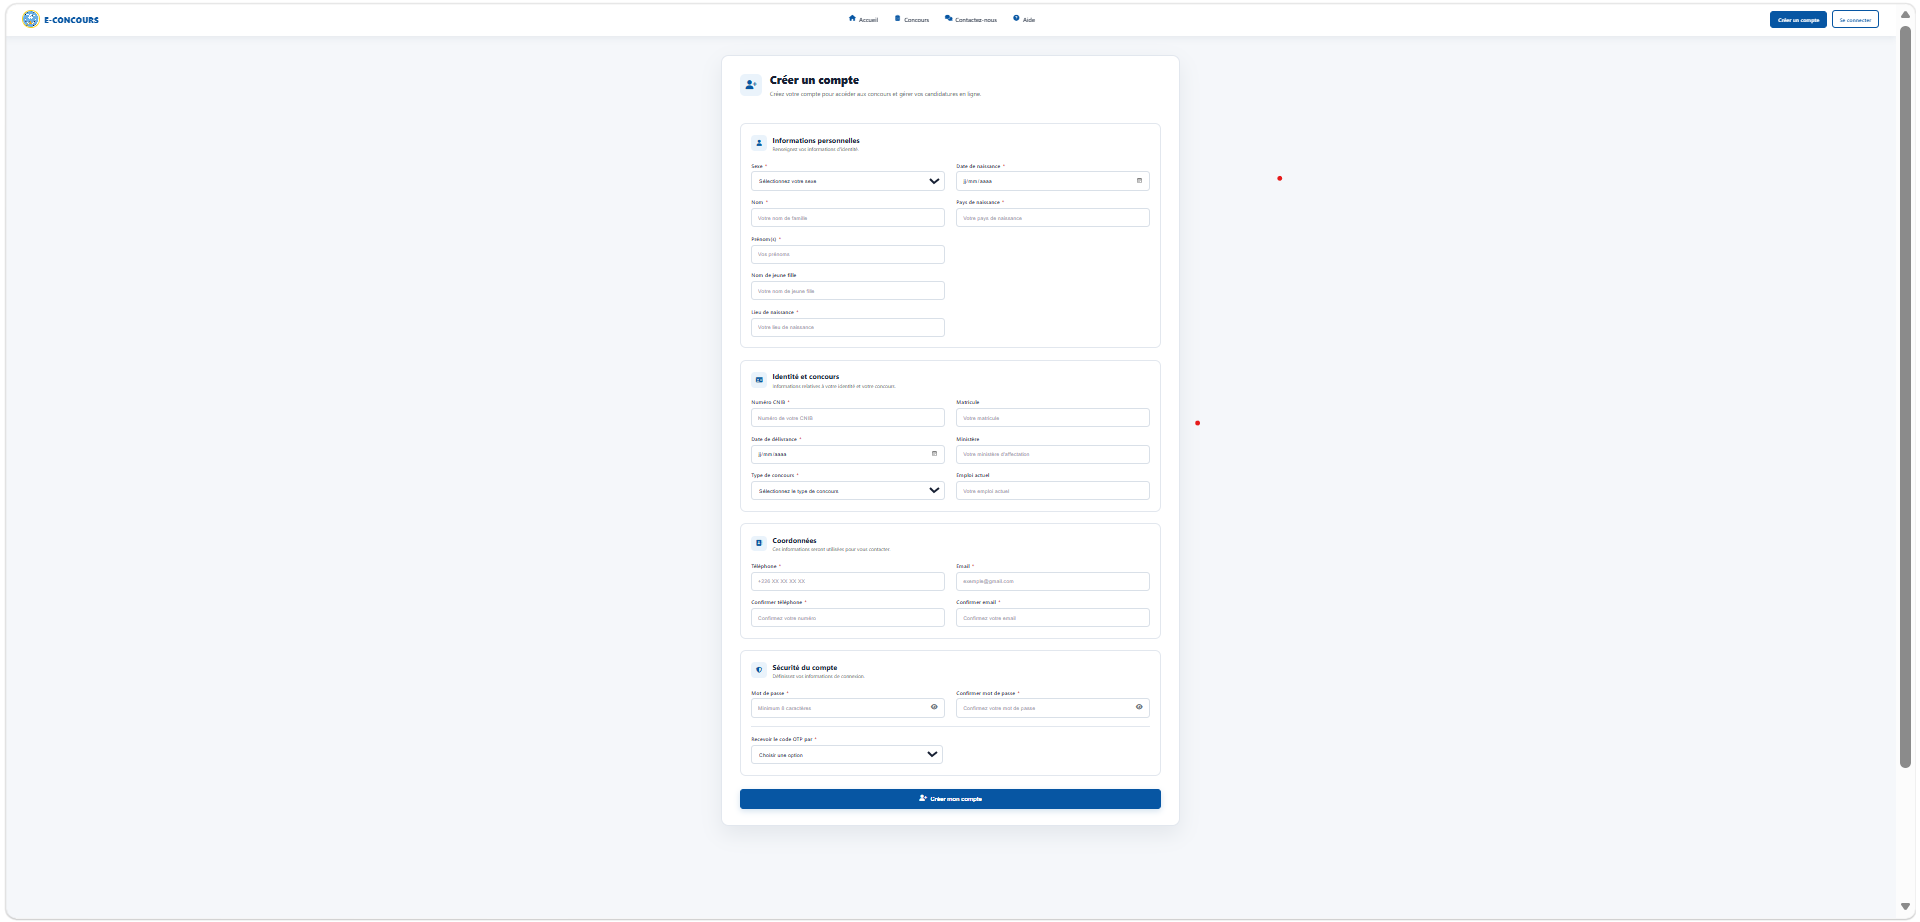
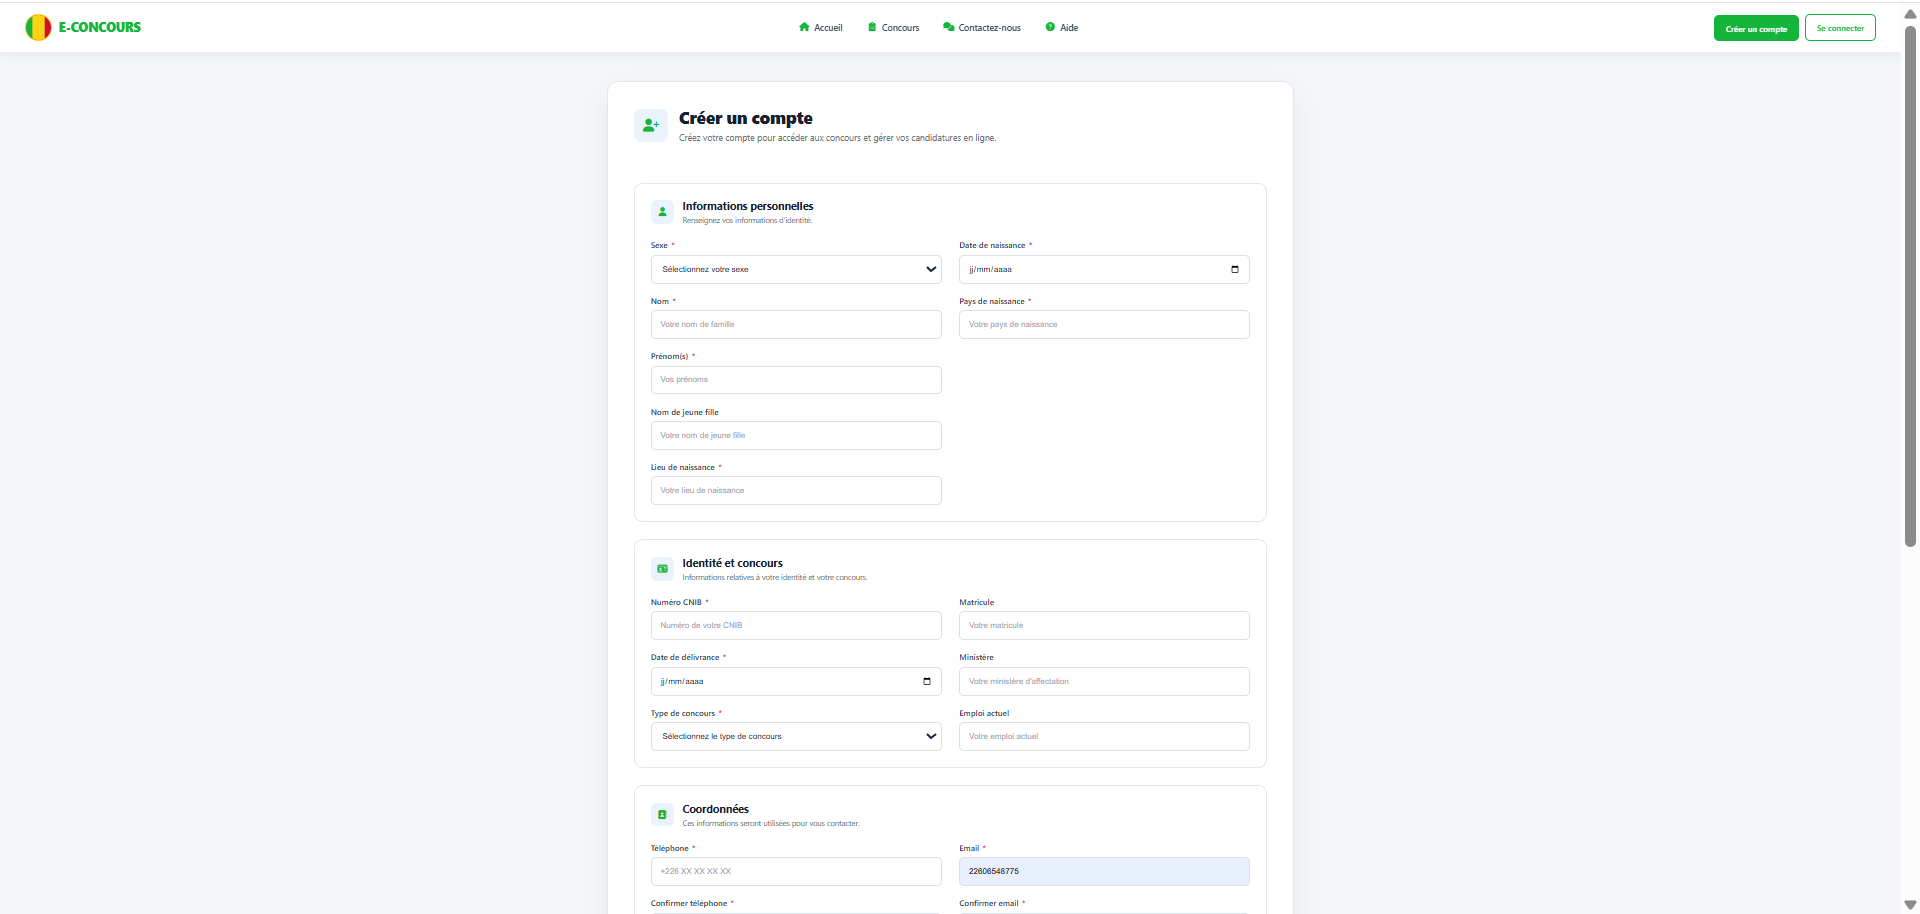
neoli

diff --git a/controllers/concoursController.js b/controllers/concoursController.js
@@ -77,7 +77,7 @@ export default class ConcoursController {
 
         this.allConcours = concoursList;
 
-      //  console.log("Concours chargés :", this.allConcours);
+        //  console.log("Concours chargés :", this.allConcours);
     }
 
     static async loadConcours(page = 1) {
@@ -133,7 +133,7 @@ export default class ConcoursController {
 
         this.select.addEventListener("change", () => {
 
-          //  console.log("CATEGORIE SELECTED:", this.select.value);
+            //  console.log("CATEGORIE SELECTED:", this.select.value);
 
             this.currentCategorie = this.select.value;
 
@@ -147,35 +147,51 @@ export default class ConcoursController {
         this.container.innerHTML = "";
 
         concoursList.forEach(concours => {
-            // hasConcours = true;
-            // console.log("CONCOURS =", concours);
-            // console.log(
-            //     `detail_concours.php?id=${concours.id_concours}`
-            // );
 
             const card = document.createElement("div");
             card.className = "concours-card";
 
+            const bouton = concours.est_inscrit
+                ? `
+                <span class="btn-primary disabled">
+                    <i class="fa-solid fa-check"></i>
+                    Déjà inscrit
+                </span>
+            `
+                : `
+                <a
+                    href="detail_concours.php?id=${concours.id_concours}"
+                    class="btn-primary"
+                >
+                    Voir détails
+                </a>
+            `;
+
             card.innerHTML = `
 
-                <h2>${concours.nom}</h2>
+            <h2>${concours.nom}</h2>
 
-                <div class="concours-footer">
-                   <div class="infos">
-                        <span><i class="fa-solid fa-calendar-days"></i> ${this.formatDate(concours.date_debut)}</span>
-                        <span><i class="fa-solid fa-users"></i> ${concours.nombre_postes || 0} postes</span>
-                    </div>
+            <div class="concours-footer">
 
-                    <a href="detail_concours.php?id=${concours.id_concours}" class="btn-primary">
-                        Voir détails
-                    </a>
+                <div class="infos">
+                    <span>
+                        <i class="fa-solid fa-calendar-days"></i>
+                        ${this.formatDate(concours.date_debut)}
+                    </span>
+
+                    <span>
+                        <i class="fa-solid fa-users"></i>
+                        ${concours.nombre_postes || 0} postes
+                    </span>
                 </div>
-            `;
+
+                ${bouton}
+
+            </div>
+        `;
 
             this.container.appendChild(card);
         });
-
-
     }
 
     // PAGINATION
@@ -243,13 +259,13 @@ export default class ConcoursController {
 
         const urlParams = new URLSearchParams(window.location.search);
         const concoursId = urlParams.get("id");
-       // console.log("DETAIL CONCOURS", concoursId);
+        // console.log("DETAIL CONCOURS", concoursId);
         if (!concoursId) return;
 
         const res = await ConcoursModel.getDetail(concoursId, token);
 
         if (!res.ok) {
-             Swal.fire({
+            Swal.fire({
                 icon: "error",
                 title: "Erreur",
                 text: res.data?.error ||

diff --git a/models/inscriptionModel.js b/models/inscriptionModel.js
@@ -23,7 +23,12 @@ export default class InscriptionModel {
 
         formData.append("id_concours", data.id_concours);
         formData.append("id_centre", data.id_centre);
-
+        formData.append("diplome", data.diplome);
+        formData.append("etablissement", data.etablissement);
+        formData.append("niveau_etude", data.niveau_etude);
+        formData.append("annee_obtentation", data.annee_obtentation);
+        formData.append("ref_diplome", data.ref_diplome);
+        
         if (data.diplome instanceof File) {
             formData.append("files", data.diplome);
         }

diff --git a/views/aide.php b/views/aide.php
@@ -108,7 +108,7 @@
                         </p>
 
                         <div class="help-screenshot">
-                            <img src="../assets/image/aide/inscription_concours.png"
+                            <img src="../assets/image/aide/inscription_conc.png"
                                 alt="Inscription à un concours E-CONCOURS"
                                 class="help-screenshot-image">
 
@@ -144,7 +144,7 @@
                         </p>
 
                         <div class="help-screenshot">
-                            <img src="../assets/image/aide/mes_candidatures.png"
+                            <img src="../assets/image/aide/candidature.png"
                                 alt="Mes candidatures E-CONCOURS"
                                 class="help-screenshot-image">
 
@@ -218,7 +218,7 @@
                         </p>
 
                         <div class="help-screenshot">
-                            <img src="../assets/image/aide/orange_money.png"
+                            <img src="../assets/image/aide/orange.png"
                                 alt="Paiement Orange Money E-CONCOURS"
                                 class="help-screenshot-image">
 
@@ -256,7 +256,7 @@
                         </p>
 
                         <div class="help-screenshot">
-                            <img src="../assets/image/aide/moov_money.png"
+                            <img src="../assets/image/aide/Moov.png"
                                 alt="Paiement MobiCash E-CONCOURS"
                                 class="help-screenshot-image">
 

diff --git a/views/modal_profil.php b/views/modal_profil.php
@@ -68,7 +68,7 @@
     <div class="modal-content large">
 
         <div class="modal-header">
-            <h4>Mes candidatures</h4>
+            <h4>Modifier mon profil</h4>
             <span class="close-candidatures">&times;</span>
         </div>
 
